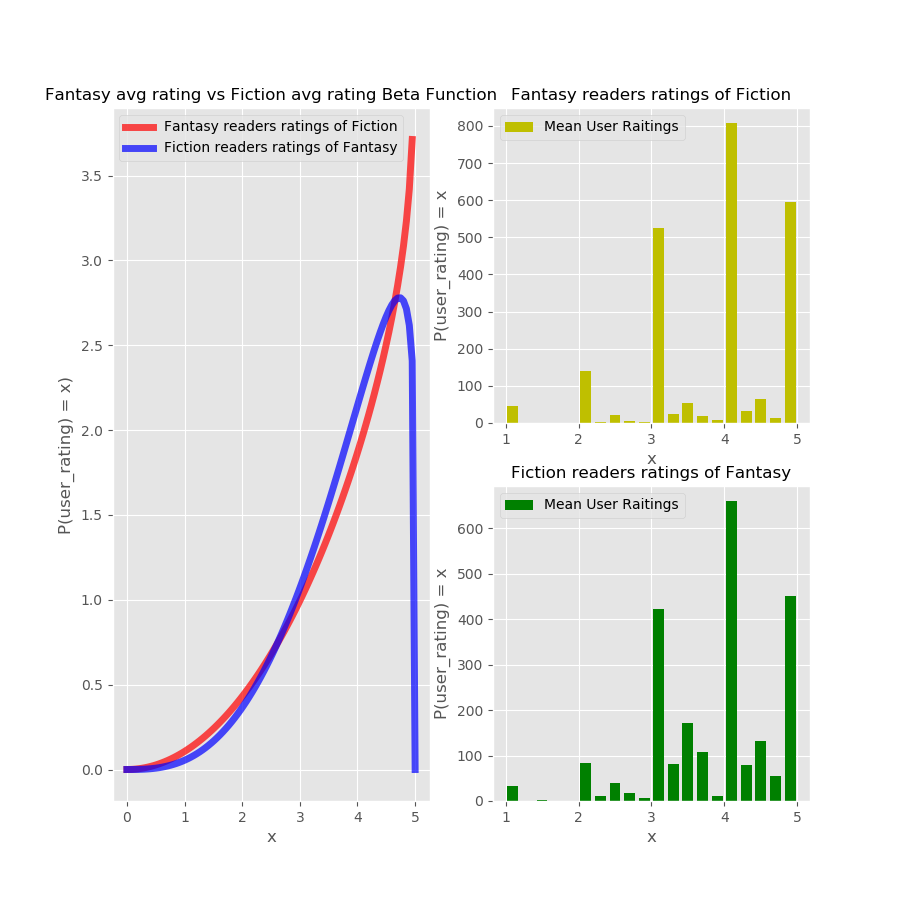
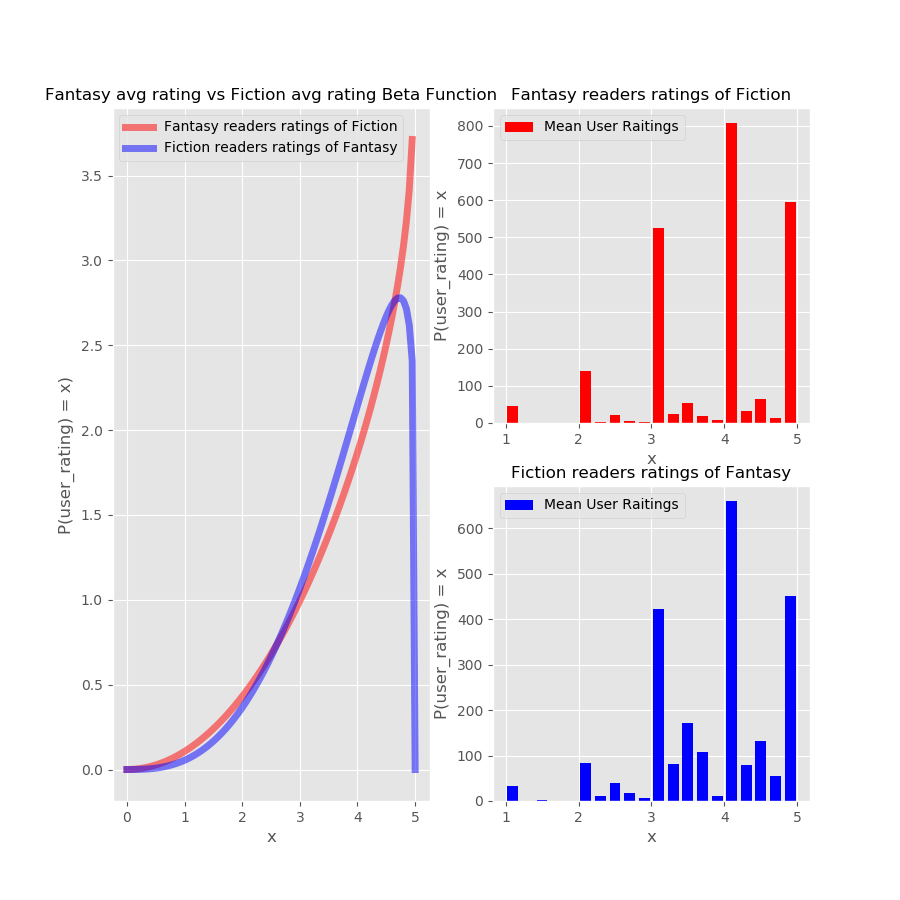
updated graphs and README

diff --git a/src/GenreTest.py b/src/GenreTest.py
@@ -14,15 +14,6 @@ from sklearn.linear_model import Lasso, Ridge, LinearRegression
 import utils as ut
 plt.style.use('ggplot')
 
-def langSelect(df, lang):
-    '''
-    input: dataframe, string
-    output: dataframe
-    takes in a dataframe and removes all langs except for the one selected
-    '''
-    mask = df['language_code'] == lang
-    return df[mask]
-
 def dataClean(df):
     '''
     input: dataframe
@@ -62,7 +53,7 @@ def ratingMatrix(df):
     df_new = df
     df_new = Beta.Beta(df_new, df_ratings).dfMerge('goodreads_book_id', 'book_id', compile_A=False)
     df_new = df_new[['book_id', 'user_id', 'rating']].reset_index()
-    df_new = pd.pivot_table(df_new, values='rating', index=['user_id'], columns=['book_id'], aggfunc=np.sum, fill_value=0)
+    #df_new = pd.pivot_table(df_new, values='rating', index=['user_id'], columns=['book_id'], aggfunc=np.sum, fill_value=0)
     return df_new
 
 def massCompare(tag_comb, tag_10):
@@ -82,18 +73,13 @@ def massTagComb(df, num_tag):
         tag_comb = combinations(tag_10, 2)
         return tag_comb, tag_10.tolist()
 
-def dataCleanAdvanced(df):
-    count_vect = CountVectorizer()
-    tfidf_transformer = TfidfTransformer()
-    X_train_counts = count_vect.fit_transform(df)
-    X_train_tfidf = tfidf_transformer.fit_transform(X_train_counts)
-    clf = MultinomialNB().fit(X_train_tfidf, df)
-    doc_new = 'fantasy'
-    X_new_count = count_vect.transform(doc_new)
-    X_new_tfidf = tfidf_transformer.transform(X_new_count)
-    pred = clf.predict(X_new_tfidf)
-    print(df[pred])
-    return clf
+def catagories(df):
+        clf = Pipeline([
+        ('vect', CountVectorizer()),
+        ('tfidf', TfidfTransformer()),
+        ('clf', MultinomialNB()),
+        ])
+        clf.fit(df, y)
 
 def Ridge_model(df, df1,df2, name):
         X = df['user_rating_x'].values.reshape(-1,1)
@@ -168,13 +154,12 @@ if __name__ == '__main__':
     df_ratings = pd.read_csv('data/ratings.csv')
     df_tags = pd.read_csv('data/tags.csv')
 
-    #selecting only the books with the eng lang code
-    df_books = langSelect(df_books, 'eng')
-
     #merging dataframes
     df_tags_books = Beta.Beta(df_book_tags, df_tags).dfMerge('tag_id', 'tag_id', compile_A=False)
     df_tags_books = dataClean(df_tags_books)
     df_tags_books = df_tags_books.sort_values('count', ascending=False).drop_duplicates(['goodreads_book_id'])
+    
+    #Visual EDA of tags
     bar_df = df_tags_books['tag_name'].value_counts()
     bar_df = bar_df.iloc[:50]
     fig = plt.figure(figsize=(8,8))
@@ -241,6 +226,5 @@ if __name__ == '__main__':
     Linear_Regression(fantasy_fic_df,'Fantasy','Fiction','Fantasy_and_Fiction')
 
     #building a pivot table
-    # Rating_Matrix = ratingMatrix(df_tags_books)
-    # Rating_Matrix = Rating_Matrix.values
-    # w, v = np.linalg.eig(Rating_Matrix)
+    Rating_Matrix = ratingMatrix(df_tags_books)
+    #data = Dataset.

diff --git a/src/BetaDist.py b/src/BetaDist.py
@@ -70,12 +70,12 @@ class Beta(object):
         x = np.linspace(0, 1, 100)
 
         #plotting function
-        ax.plot(5*x, stats.beta.pdf(x, df1_a, df1_b),'r-', lw=5, alpha=0.7, label="{0} readers ratings of {1}".format(df1_name, df2_name))
-        ax.plot(5*x, stats.beta.pdf(x, df2_a, df2_b),'b-', lw=5, alpha=0.7, label="{0} readers ratings of {1}".format(df2_name, df1_name))
+        ax.plot(5*x, stats.beta.pdf(x, df1_a, df1_b),'r-', lw=5, alpha=0.5, label="{0} readers ratings of {1}".format(df1_name, df2_name))
+        ax.plot(5*x, stats.beta.pdf(x, df2_a, df2_b),'b-', lw=5, alpha=0.5, label="{0} readers ratings of {1}".format(df2_name, df1_name))
         ax.legend()
 
-        ax1.hist(5 * df1_avg[tag], color='y', bins = 20, rwidth = 0.75, label= "Mean User Raitings")
-        ax2.hist(5 * df2_avg[tag], color = 'g',bins = 20, rwidth = 0.75, label= "Mean User Raitings")
+        ax1.hist(5 * df1_avg[tag], color='r', bins = 20, rwidth = 0.75, label= "Mean User Raitings")
+        ax2.hist(5 * df2_avg[tag], color = 'b',bins = 20, rwidth = 0.75, label= "Mean User Raitings")
 
         
         #formating

diff --git a/README.md b/README.md
@@ -1,4 +1,6 @@
-# Galvanize Capstone 1
+# What Should I Read
+
+![alt text](images/Books.jpg)
 
 ## Table of Contents
 
@@ -9,13 +11,13 @@
     - [Science-Fiction and Fantasy](#science-fiction-and-fantasy)        
     - [Fiction and Vampire](#fiction-and-vampire)        
     - [Top 10 tags](#top-10-tags)    
-- [Linear Models](#linear-models)        
+- [Linear Models](#linear-models)
+- [Future Directions](#future-directions)
+- [Acknowledgments](#acknowledgments)        
 
 ## Project Explanation and Goals
 
-For this poject I decided to look at book genres and the "bleeding" between genres (the enjoyment of one genre given the enjoyment of another genre). The Goodreads 10k book dataset from kaggle seemed perfect because it countained 10 thousand books, user reviews and user given tags. The data sets was made of four csv files, books, book_tags, ratings, and tags. My end plan is to be able to predict the raitings that someone might give any genre given their enjoyment of one genre. 
-
-![alt text](images/Books.jpg)
+For this poject I decided to look at book genres and the "bleeding" between genres (the enjoyment of one genre given the enjoyment of another genre). The Goodreads 10k book dataset from kaggle seemed perfect because it countained 10 thousand books, user reviews and user given tags. The data sets was made of four csv files, books, book_tags, ratings, and tags. My end plan is to be able show an individuals intrest in one genre given their intrest in any other genre.
 
 ## EDA
 
@@ -45,11 +47,11 @@ Because I am looking at the mean ratings given by each user you can deffinetly h
 
 ## Baysian A/B testing
 
-After cleaning and orginizing my dataset, I decided that the beset way to compare genres would be through Baysian A/B testing because it can show the mean rating that users give to other genres and can give me a numerical values for how much better does one genre fan like another genre. For these experments my Null is that individuals give the same rating to any genre and my Alt is that they give differnt values.
+After cleaning and orginizing my dataset, I decided that the best way to compare genres would be through Baysian A/B testing because it can show the mean rating that users give to other genres and can give me a numerical values for how much better does one genre reader like another genre. For these experments my Null is that individuals give the same rating to the two genres (mean1 = mean2) and my Alt is that they give differnt values (mean1 != mean2).
 
 ### Fantasy and Fiction
 
-The first two genres I compared were fantasy and fiction being the two most common book types.
+The first two genres I compared were fantasy and fiction being the two most common book types. The following is the code that I used to do my calculations for all of the following genres.
 
 ```python
 df_fantasy = isolate_tag(df_tags_books, 'fantasy', min_books_read)
@@ -62,9 +64,9 @@ print('A/B test, Difference in Mean Raiting', fantasy_fic)
 
 ![alt text](images/fig_Fantasy.png)
 
-From running the A/B test and the Beta function produced I found that acording to the data there is almost no difference in the ratings that fans of fantasy give to fiction and vice-versa. I ended up getting that model B was better than model A about <b>50%</b> of the time which once again shows no difference between the two models which makes it so I can't reject the null. This does make some sense because these two genres tend to have a lot of overlap in intrests and some individuals might consider a fantasy novel to be fiction which would definetly skew the data one way or another.
+From running the A/B test and the Beta function produced I found that acording to the data there is almost no difference in the ratings that fans of fantasy give to fiction and vice-versa. The lack of the tale of the fantasy plot I ended up getting that model B was better than model A about <b>50%</b> of the time which once again shows no difference between the two models which makes it so I can't reject the null. This does make some sense because these two genres tend to have a lot of overlap in intrests and some individuals might consider a fantasy novel to be fiction which would definetly skew the data one way or another.
 
-To double check the distribution of user raitings I took the difference between the average fantasy rating and the average fiction and found that on average, there is only a <b>-.01</b> difference between how individuals rate fantasy and fiction. To me this shows that if you like fiction or fantasy, you will mostlikly like the other genre equally as much.
+To double check the distribution of user raitings I took the difference between the average fantasy rating and the average fiction and found that on average, there is only a <b>-.003</b> difference between how individuals rate fantasy and fiction. To me this shows that if you like fiction or fantasy, you will mostlikly like the other genre equally as much.
 
 ### Science-Fiction and Fantasy
 
@@ -72,7 +74,7 @@ I then compared were Science-Fiction and Fantasy, which I though would be very c
 
 ![alt text](images/fig_Science-Fiction.png)
 
-From this figure, it is easy to see that readers of sci-fi and fantasy tend to rate the two genres very high and they are very likly to rate the other genre as a 5 due to the lack of a right tale in either graph. Numerically I found that model B performed beter only <b>58%</b> of the time compared to model A and on average there was only a raitng differnce between the genres of <b>0.21</b>. These elements on top of the visual element shows that the Null can't be rejected and individuals tend to rate sci-fi and fantasy the exact same. 
+From this figure, it is easy to see that readers of sci-fi and fantasy tend to rate the two genres very high and they are very likly to rate the other genre as a 5 due to the lack of a right tale in either graph. Numerically I found that model B performed beter only <b>54%</b> of the time compared to model A and on average there was only a raitng differnce between the genres of <b>0.13</b>. These elements on top of the visual element shows that the Null can't be rejected and individuals tend to rate sci-fi and fantasy the exact same. 
 
 ### Fiction and Vampire
 
@@ -151,3 +153,13 @@ I developed a class that could take in a dataframe and make a very simple model 
 ![alt text](images/Fantasy_and_Fiction_linear_model.png)
 
 What I found is that because these models only have one feature, the RMLSE produced by Linear Regression, Lasso, and Ridge were all equal at <b>0.1942</b>. This means that in this case all of the models perform just about the same.
+
+## Future Directions
+
+I hope to develope a recomender system that can recomend books in different genres bassed off of these concepts and maybe even a classifier in order to more accuretly segment up the book population.
+
+## Acknowledgments
+
+- <a href="https://www.kaggle.com/zygmunt/goodbooks-10k#book_tags.csv">Kaggle</a> for the data set
+- <a href="https://github.com/Milliemonster/Amazon_reviews_analysis">Millie Smith</a> for the base code to make the Beta Plots
+- The Galvanize Instrutor Team for help and advice with writing the code
